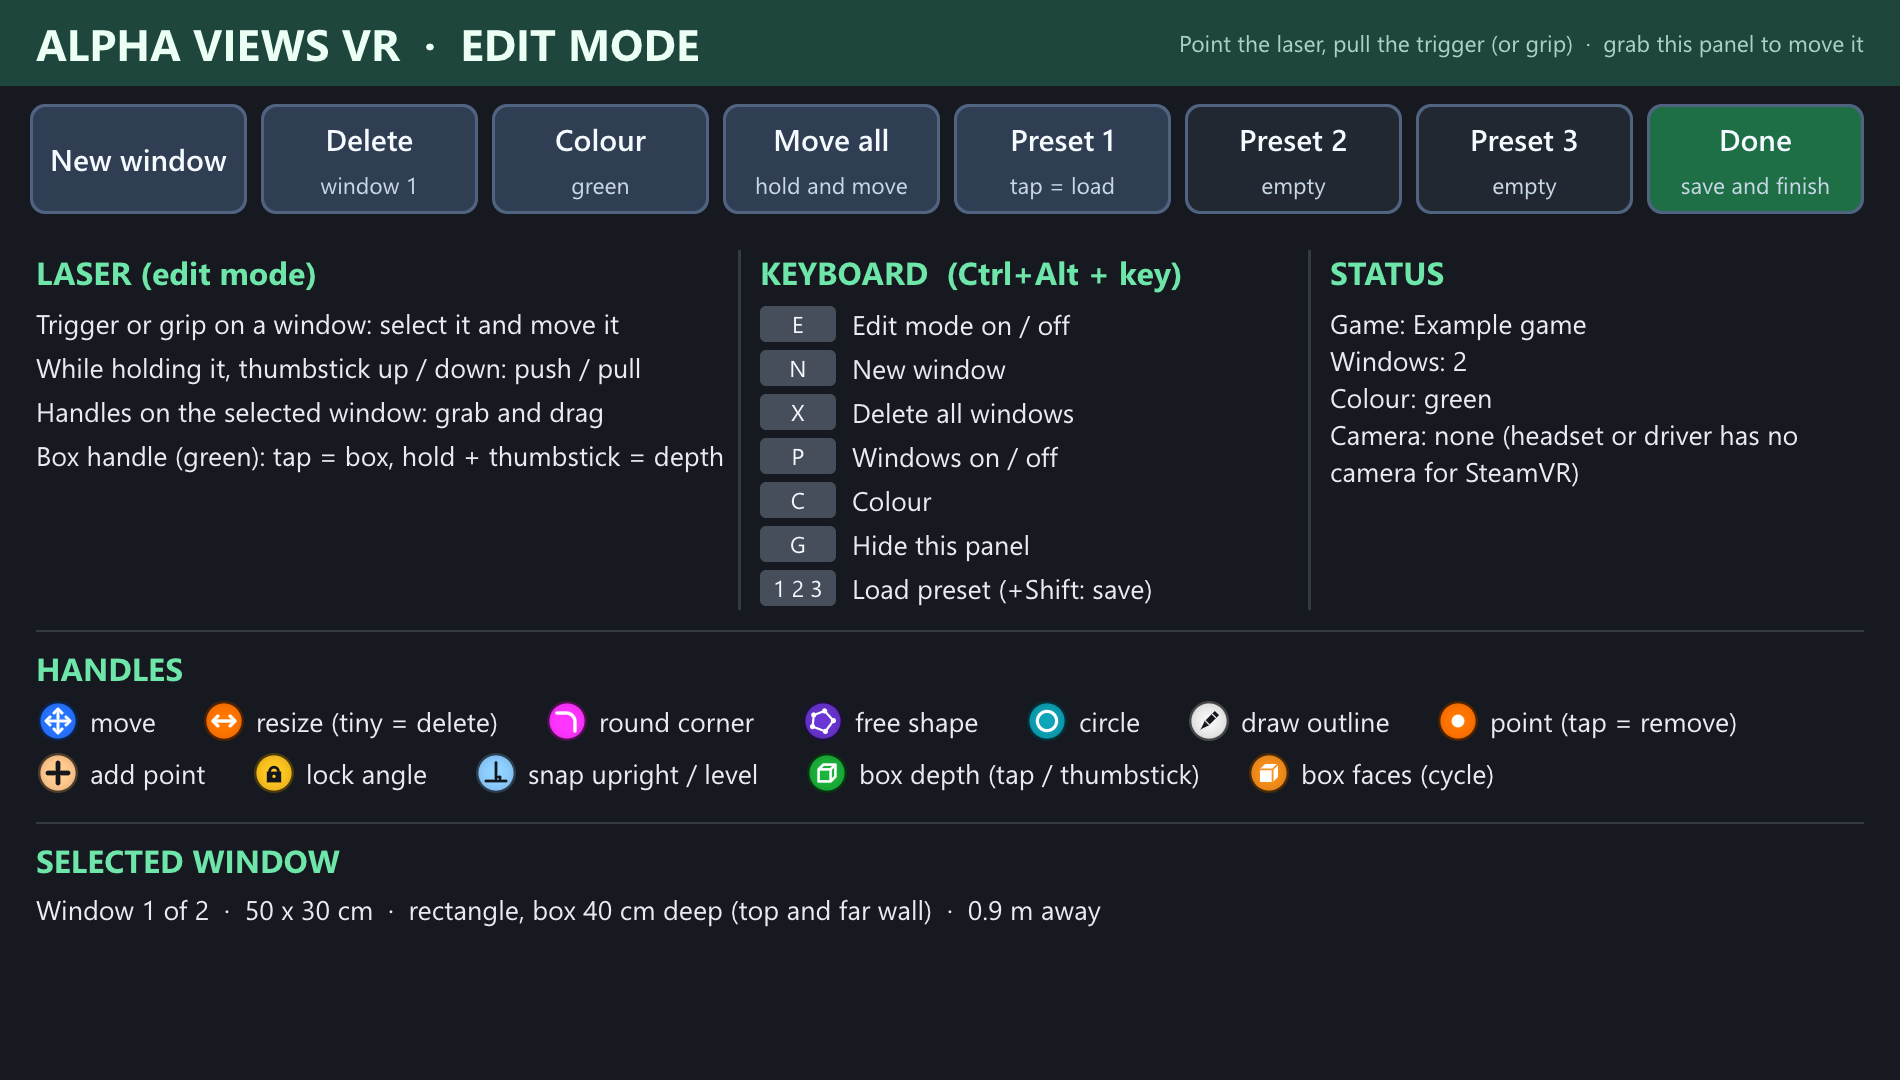
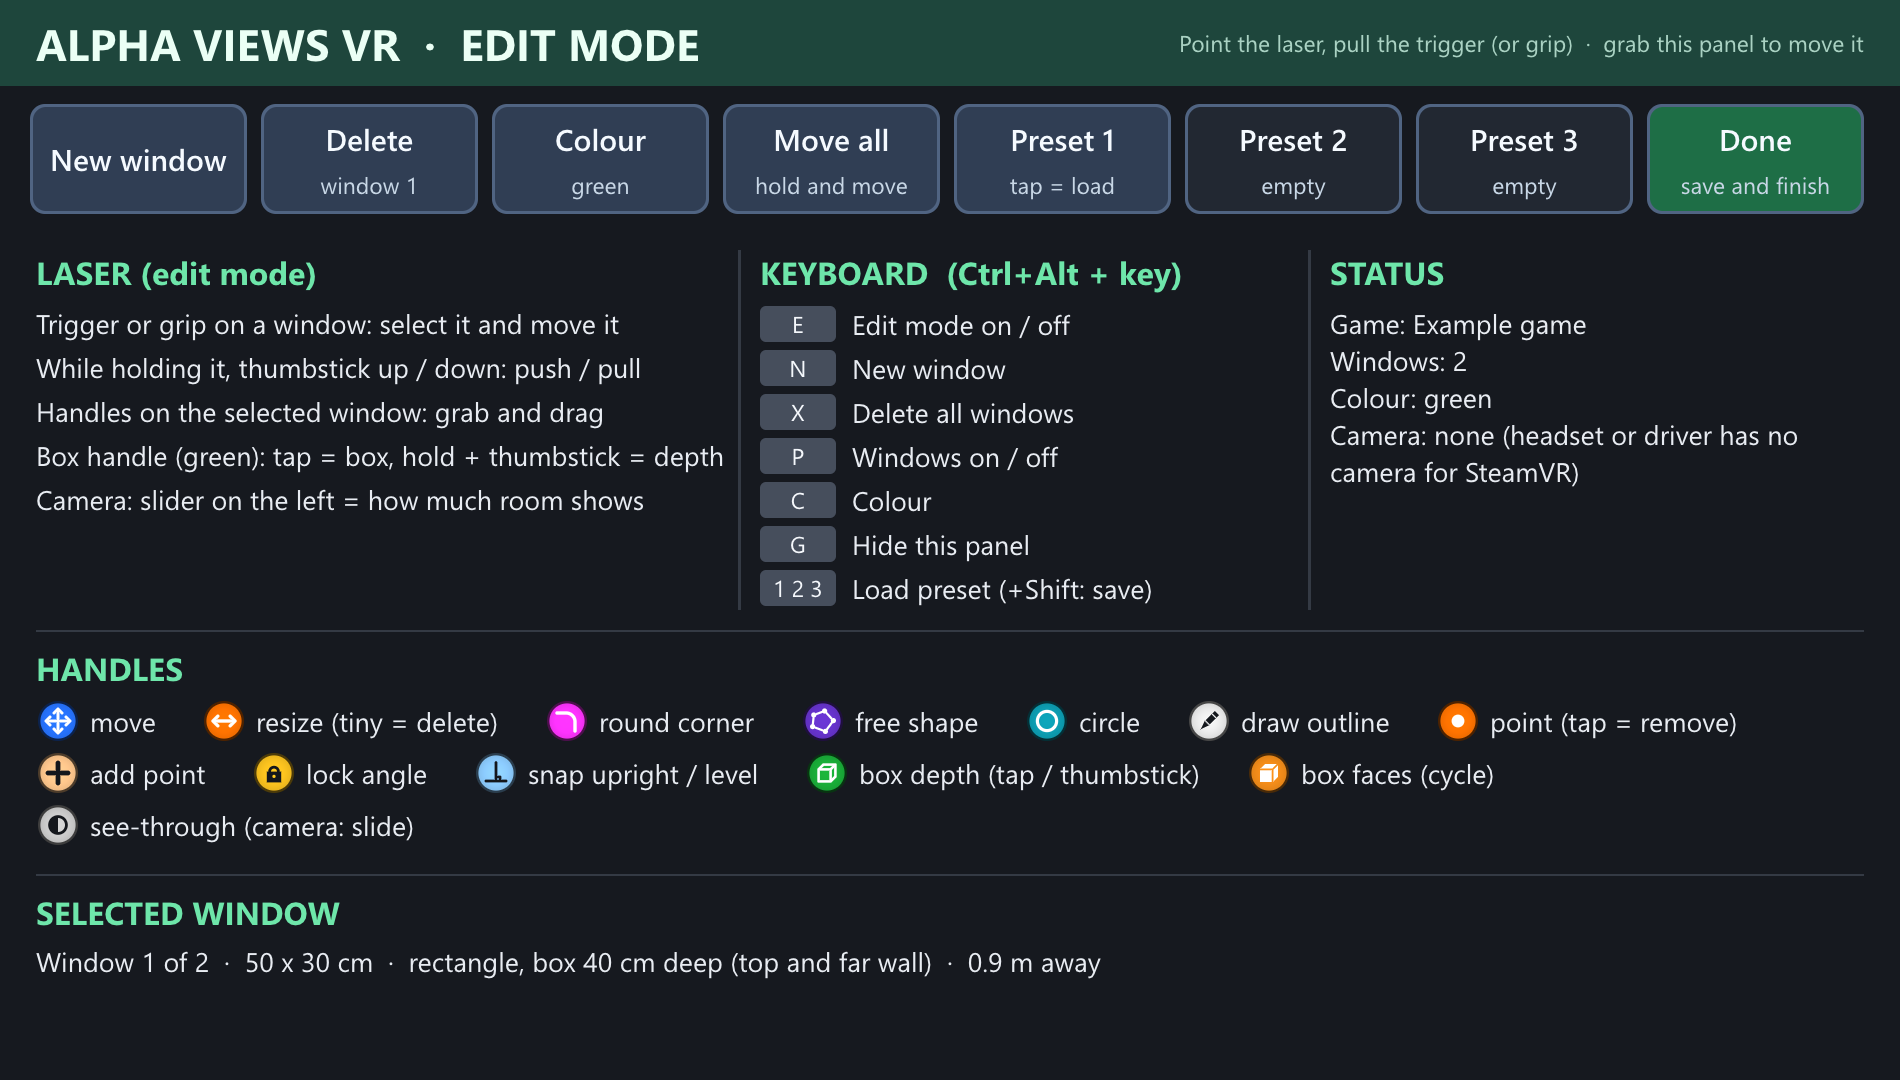
Alpha Views VR 1.2.0: see-through slider for camera mode
- New handle on the selected window (half-filled ring on a dotted track, left
  of the window): how much of the camera picture shows over the game, 100%
  (only the room, as before) down to 0% (only the game), in 5% steps. Uses
  the window's and its box faces' overlay opacity. Saved per window as a new
  last field on its line (the same file format as Alpha Views XR 1.5.1).
- Camera mode only: key colours can't be partly see-through, so the slider is
  hidden and the value ignored with green, blue or pink.
- Guide panel: legend entry, laser help line and the selected window's
  amount. README, user guide and pictures updated.

diff --git a/main.cpp b/main.cpp
@@ -226,6 +226,8 @@ struct Window {
     bool ellipse = false;
     bool lock = false;
     int boxMode = 0;              // which faces of a box show: 0 all, 1 top + far wall, 2 far wall + floor, 3 all but front and floor
+    float see = 1;                // how much of the room shows through it: 1 all (the default), 0 none (camera mode only;
+                                  // Alpha Views XR: alpha passthrough). Saved after boxMode.
 };
 static bool IsShape(const Window& w) { return w.pts.size() >= 3; }
 static XMMATRIX WinMatrix(const Window& w) {
@@ -410,9 +412,9 @@ static void MakeRect(Window& w) {
 
 // ================================================================ state
 enum GrabMode { GRAB_NONE, GRAB_MOVE, GRAB_CORNER, GRAB_RADIUS, GRAB_POINT, GRAB_ADDPT, GRAB_TYPE, GRAB_DRAWBTN,
-                GRAB_TRACE, GRAB_CIRCLEBTN, GRAB_LOCKBTN, GRAB_SNAPBTN, GRAB_GUIDE, GRAB_ALL, GRAB_PRESET, GRAB_BUTTON, GRAB_DEPTH, GRAB_BOXMODE };
+                GRAB_TRACE, GRAB_CIRCLEBTN, GRAB_LOCKBTN, GRAB_SNAPBTN, GRAB_GUIDE, GRAB_ALL, GRAB_PRESET, GRAB_BUTTON, GRAB_DEPTH, GRAB_BOXMODE, GRAB_SEE };
 enum IconId { ICON_DOT, ICON_MOVE, ICON_RESIZE, ICON_ROUND, ICON_DEPTH, ICON_KEEP, ICON_TO_SHAPE, ICON_TO_RECT,
-              ICON_DRAW, ICON_POINT, ICON_ADD, ICON_TO_CIRCLE, ICON_LOCK, ICON_UNLOCK, ICON_SNAP };
+              ICON_DRAW, ICON_POINT, ICON_ADD, ICON_TO_CIRCLE, ICON_LOCK, ICON_UNLOCK, ICON_SNAP, ICON_SEE };
 
 static std::vector<Window> g_windows;
 static int g_selected = -1, g_drawArmed = -1;
@@ -444,6 +446,21 @@ static XMVECTOR DepthHandle(const Window& w) { return WinToWorld(w, w.hw + kDept
 // The box mode button: just past the depth handle (where Alpha Views XR has its keep-box button).
 static XMVECTOR BoxModeButton(const Window& w) { return WinToWorld(w, w.hw + (kDepthOut + 0.042f) * SpreadSide(w), 0, 0); }
 static const char* kBoxModeName[4] = { "whole box", "top and far wall", "far wall and floor", "all but front and floor" };
+// "See" slider (how much room shows through the window): outside the left edge, opposite the depth
+// handle, as in Alpha Views XR. A row of dots from bottom (0: game only) to top (1: room only) and
+// a knob at the window's value. Any of them takes hold of the slider.
+static const float kSeeOut = 0.075f, kSeeLen = 0.12f, kSeeKnobR = 0.014f, kSeeDotR = 0.0045f;
+static const int kSeeDots = 7;
+static XMFLOAT2 SeeLocal(const Window& w, float t) {   // t: 0 bottom .. 1 top
+    float s = SpreadSide(w);
+    return { -(w.hw + kSeeOut * s), (t - 0.5f) * kSeeLen * s };
+}
+static float SeeFromLocalY(const Window& w, float y) {   // nearest 5 %
+    float t = std::clamp(y / (kSeeLen * SpreadSide(w)) + 0.5f, 0.0f, 1.0f);
+    return roundf(t * 20) / 20;
+}
+// Does see-through work in the current colour mode? (Key colours can't be partly see-through.)
+static bool SeeWorks() { return g_keyMode == 3; }
 static XMFLOAT2 TopButton(const Window& w, float x) { float s = SpreadTop(w); return { x * s, w.hh + 0.045f * s }; }
 static XMFLOAT2 MidLocal(const Window& w, int k) {
     const XMFLOAT2 &a = w.pts[k], &b = w.pts[(k + 1) % w.pts.size()];
@@ -461,6 +478,7 @@ static XMVECTOR TargetPoint(const Window& w, GrabMode mode, int k) {
     case GRAB_SNAPBTN: { XMFLOAT2 b = TopButton(w, 0.09f); return WinToWorld(w, b.x, b.y); }
     case GRAB_DEPTH: return DepthHandle(w);
     case GRAB_BOXMODE: return BoxModeButton(w);
+    case GRAB_SEE: { XMFLOAT2 s = SeeLocal(w, k < 0 ? w.see : (float)k / (kSeeDots - 1)); return WinToWorld(w, s.x, s.y); }
     default: break;
     }
     return WinToWorld(w, 0, 0);
@@ -521,7 +539,7 @@ static bool ReadWindows(const std::string& path, bool* enabled) {
             }
             if (ok && sscanf(c, "%d%n", &keep, &adv) == 1) {
                 w.keep = keep != 0; c += adv;
-                if (sscanf(c, "%d%n", &ell, &adv) == 1) { w.ellipse = ell != 0 && !IsShape(w); c += adv; if (sscanf(c, "%d%n", &lock, &adv) == 1) { w.lock = lock != 0; c += adv; int bm = 0; if (sscanf(c, "%d", &bm) == 1) w.boxMode = std::clamp(bm, 0, 3); } }
+                if (sscanf(c, "%d%n", &ell, &adv) == 1) { w.ellipse = ell != 0 && !IsShape(w); c += adv; if (sscanf(c, "%d%n", &lock, &adv) == 1) { w.lock = lock != 0; c += adv; int bm = 0; if (sscanf(c, "%d%n", &bm, &adv) == 1) { w.boxMode = std::clamp(bm, 0, 3); c += adv; float se = 1; if (sscanf(c, "%f", &se) == 1 && std::isfinite(se)) w.see = std::clamp(se, 0.0f, 1.0f); } } }
             }
             ws.push_back(w);
         }
@@ -539,7 +557,7 @@ static bool WriteWindows(const std::string& path) {
             w.rot.x, w.rot.y, w.rot.z, w.rot.w, w.hw, w.hh, w.radius[0], w.radius[1], w.radius[2], w.radius[3],
             0, 0, 0, 0, w.hd, IsShape(w) ? (int)w.pts.size() : 0);
         if (IsShape(w)) for (auto& p : w.pts) fprintf(f, " %f %f", p.x, p.y);
-        fprintf(f, " %d %d %d %d\n", w.keep ? 1 : 0, w.ellipse ? 1 : 0, w.lock ? 1 : 0, w.boxMode);
+        fprintf(f, " %d %d %d %d %.2f\n", w.keep ? 1 : 0, w.ellipse ? 1 : 0, w.lock ? 1 : 0, w.boxMode, w.see);
     }
     fclose(f);
     return true;
@@ -736,6 +754,10 @@ static float Glyph(int id, P p) {
         float d = min(Seg(p, { -0.5f, -0.4f }, { 0.5f, -0.4f }), Seg(p, { 0, -0.4f }, { 0, 0.52f }));
         d = min(d, min(Seg(p, { 0.2f, -0.4f }, { 0.2f, -0.2f }), Seg(p, { 0.2f, -0.2f }, { 0, -0.2f })));
         return d - 0.07f;
+    }
+    if (id == ICON_SEE) {   // a ring, its left half filled: part game, part room
+        float r = Len(p);
+        return min(fabsf(r - 0.42f) - 0.07f, max(r - 0.42f, p.x));
     }
     return 1e3f;
 }
@@ -1342,7 +1364,12 @@ static vr::VROverlayHandle_t MakeOverlay(const std::string& key, const std::stri
 
 // Window overlays: one each, with its own picture.
 struct WinOv { vr::VROverlayHandle_t ov = vr::k_ulOverlayHandleInvalid; Canvas cv; std::string look; bool shown = false, inter = false;
-              XMFLOAT4X4 frame{}; float halfW = 0.1f, halfH = 0.1f; };   // where the picture is (a box: the sheet facing you)
+              XMFLOAT4X4 frame{}; float halfW = 0.1f, halfH = 0.1f;   // where the picture is (a box: the sheet facing you)
+              float alpha = -1; };                                    // overlay opacity last set (the see slider)
+// Overlay opacity for a window's pictures: its see value in camera mode, else solid (a key colour
+// mixed with the game would no longer match the streamer's key).
+static float WindowAlpha(int wi) { return SeeWorks() && wi >= 0 && wi < (int)g_windows.size() ? g_windows[wi].see : 1.0f; }
+static void SetAlpha(vr::VROverlayHandle_t ov, float& cur, float a) { if (cur != a) { O()->SetOverlayAlpha(ov, a); cur = a; } }
 static std::vector<WinOv> g_winOv;
 // Handle overlays: a pool, given out each frame to the selected window's handles.
 struct HandleOv { vr::VROverlayHandle_t ov = vr::k_ulOverlayHandleInvalid; Tex* tex = nullptr; bool shown = false, inter = false, flip = false;
@@ -1637,7 +1664,7 @@ static void RenderGuide() {
     if (g_selected >= 0 && g_selected < (int)g_windows.size()) {
         const Window& w = g_windows[g_selected];
         sel = Fmt(L"Window %d of %d  ·  %.0f x %.0f cm  ·  %ls%ls  ·  %.1f m away", g_selected + 1, (int)g_windows.size(), w.hw * 200, w.hh * 200,
-                  IsShape(w) ? L"free shape" : w.ellipse ? L"circle" : L"rectangle", ((w.lock ? std::wstring(L", angle locked") : std::wstring()) + (w.hd > 0 ? Fmt(L", box %.0f cm deep (%ls)", w.hd * 200, Widen(kBoxModeName[w.boxMode]).c_str()) : std::wstring())).c_str(), Dist(g_head, V(w.pos)));
+                  IsShape(w) ? L"free shape" : w.ellipse ? L"circle" : L"rectangle", ((w.lock ? std::wstring(L", angle locked") : std::wstring()) + (w.hd > 0 ? Fmt(L", box %.0f cm deep (%ls)", w.hd * 200, Widen(kBoxModeName[w.boxMode]).c_str()) : std::wstring()) + (w.see < 1 ? Fmt(L", %.0f%% room", w.see * 100) : std::wstring())).c_str(), Dist(g_head, V(w.pos)));
     } else sel = g_windows.empty() ? L"No windows yet: New window (above) makes one" : Fmt(L"None selected (%d windows): point at one and pull the trigger", (int)g_windows.size());
     if (g_drawArmed >= 0) sel += L"\nDrawing: hold the trigger on the window and trace the outline, let go to finish";
     if (Now() < g_windowsFullUntil) sel += Fmt(L"\n%d windows is the most: delete one to make another", kMaxWindows);
@@ -1683,6 +1710,7 @@ static void RenderGuide() {
         L"While holding it, thumbstick up / down: push / pull",
         L"Handles on the selected window: grab and drag",
         L"Box handle (green): tap = box, hold + thumbstick = depth",
+        L"Camera: slider on the left = how much room shows",
     };
     int y = top + 54;
     for (auto* s : kLaser) { g.Text(s, g.fText, cText, { x1, y, x2 - 30, y + 40 }, TX_LEFT | TX_SINGLELINE | TX_END_ELLIPSIS); y += 44; }
@@ -1713,9 +1741,10 @@ static void RenderGuide() {
         { ICON_SNAP, { 0.55f, 0.8f, 1 }, { 0.08f, 0.09f, 0.11f }, true },
         { ICON_DEPTH, { 0.1f, 0.68f, 0.22f } },
         { ICON_KEEP, { 0.95f, 0.55f, 0.1f } },
+        { ICON_SEE, { 0.8f, 0.8f, 0.8f } },
     };
     static const wchar_t* words[] = { L"move", L"resize (tiny = delete)", L"round corner", L"free shape", L"circle", L"draw outline",
-                                      L"point (tap = remove)", L"add point", L"lock angle", L"snap upright / level", L"box depth (tap / thumbstick)", L"box faces (cycle)" };
+                                      L"point (tap = remove)", L"add point", L"lock angle", L"snap upright / level", L"box depth (tap / thumbstick)", L"box faces (cycle)", L"see-through (camera: slide)" };
     g.Text(L"HANDLES", g.fHead, cHead, { x1, y, xEnd, y + 44 }, TX_LEFT | TX_SINGLELINE);
     y += 54;
     std::vector<std::pair<int, int>> spots;
@@ -1927,6 +1956,11 @@ static void BeginWindowGrab(GrabMode mode, int wi, int k) {
     LaserOnWindow(w, hit);
     XMStoreFloat3(&g_grab.hit0, hit);
     if (mode == GRAB_MOVE) { g_selected = wi; return; }
+    if (mode == GRAB_SEE) {   // the slider follows the laser at once (pointing at a dot jumps there)
+        g_grab.dragging = true;
+        w.see = SeeFromLocalY(w, WorldToWin(w, hit).y);
+        return;
+    }
     if (mode == GRAB_TRACE) {
         g_tracePlane = w;
         if (g_ctlOk) {
@@ -2012,6 +2046,7 @@ static void UpdateGrab(double now) {
     }
     XMVECTOR hit;
     if (!LaserOnWindow(G.mode == GRAB_TRACE ? g_tracePlane : w, hit)) return;
+    if (G.mode == GRAB_SEE) { w.see = SeeFromLocalY(w, WorldToWin(w, hit).y); return; }
     XMVECTOR p = hit + V(G.offset);
     if (G.mode == GRAB_CORNER) {
         int k = G.k;
@@ -2075,6 +2110,7 @@ static void EndGrab(double now) {
             RecentreShape(w);
         }
         if (G.mode == GRAB_TRACE) FinishTrace(G.win);
+        if (G.mode == GRAB_SEE) Log("Window %d shows %.0f%% room\n", G.win, w.see * 100);
         if (G.mode == GRAB_DEPTH) {
             if (tap) w.hd = w.hd > 0 ? 0 : 0.1f;   // tap: a 20 cm box, or flat again
             Log("Window %d depth %.0f cm%s\n", G.win, w.hd * 200, w.hd > 0 ? "" : " (flat)");
@@ -2124,6 +2160,18 @@ static void BuildHandles(std::vector<UiIcon>& out) {
         bool h = hovered(GRAB_BOXMODE, -1); float s = h ? 1.15f : 0.9f;
         const float* c = kCol[w.boxMode];
         add(GRAB_BOXMODE, -1, kButtonR * (h ? 1.25f : 1), { ICON_KEEP, { std::min(1.0f, c[0] * s), std::min(1.0f, c[1] * s), std::min(1.0f, c[2] * s) } }, face, face);
+    }
+    if (SeeWorks()) {   // see-through slider: track dots (dim below the knob, lit above), then the knob
+        bool a = g_grab.win == wi && g_grab.mode == GRAB_SEE;
+        bool h = a;
+        for (int k = -1; k < kSeeDots; ++k) h = h || hovered(GRAB_SEE, k);
+        for (int k = 0; k < kSeeDots; ++k) {
+            float t = (float)k / (kSeeDots - 1), b = t <= w.see + 1e-3f ? 0.85f : 0.35f;
+            if (fabsf(t - w.see) * kSeeLen < kSeeKnobR * 1.3f) continue;   // under the knob
+            add(GRAB_SEE, k, kSeeDotR * (h ? 1.3f : 1), { ICON_DOT, { b, b, b } }, wr, wu);
+        }
+        IconLook look = a ? IconLook{ ICON_SEE, { 1, 0.9f, 0.2f } } : IconLook{ ICON_SEE, { h ? 0.95f : 0.8f, h ? 0.95f : 0.8f, h ? 0.95f : 0.8f } };
+        add(GRAB_SEE, -1, kSeeKnobR * (h ? 1.25f : 1), look, face, face);
     }
     if (IsShape(w)) {
         bool h = hovered(GRAB_DRAWBTN, -1), armed = g_drawArmed == wi;
@@ -2311,7 +2359,7 @@ static bool BoxView(const Window& w, const std::vector<XMFLOAT2>& per, const std
 // selected in edit mode (its handles must stay in front) and in camera mode (one picture per box).
 // The front face is the window's own overlay (moved out to the front); the back and the sides come from
 // this pool, shared by all boxes.
-struct FaceOv { vr::VROverlayHandle_t ov = vr::k_ulOverlayHandleInvalid; bool shown = false, inter = false; int mirror = -1; Tex* tex = nullptr; uint32_t texVer = 0; int win = -1; };
+struct FaceOv { vr::VROverlayHandle_t ov = vr::k_ulOverlayHandleInvalid; bool shown = false, inter = false; int mirror = -1; Tex* tex = nullptr; uint32_t texVer = 0; int win = -1; float alpha = -1; };
 static std::vector<FaceOv> g_faceOv;
 static bool g_facePoolFull = false;
 static Tex* g_solidTex[3] = {};
@@ -2401,6 +2449,7 @@ static void ShowFaces(const std::vector<Face>& faces) {
         bool inter = g_edit && !(fabsf(hl.z) < fw.hd + 0.05f && fabsf(hl.x) < fw.hw + 0.05f && fabsf(hl.y) < fw.hh + 0.05f);   // not from inside it
         if (g_grab.mode != GRAB_NONE) inter = f.inter;
         if (inter != f.inter) { SetInteractive(f.ov, inter); f.inter = inter; }
+        SetAlpha(f.ov, f.alpha, WindowAlpha(fc.win));
         if (!f.shown) { O()->ShowOverlay(f.ov); f.shown = true; }
     }
 }
@@ -2499,6 +2548,7 @@ static void ShowWindows(bool camNew) {
         bool inter = g_edit && !inside;
         if (g_grab.mode != GRAB_NONE && g_grab.win == (int)i) inter = o.inter;   // held: unchanged, or its let-go would be lost
         if (o.inter != inter) { SetInteractive(o.ov, inter); o.inter = inter; }
+        SetAlpha(o.ov, o.alpha, WindowAlpha((int)i));
         if (!o.shown) { O()->ShowOverlay(o.ov); o.shown = true; }
     }
     ShowFaces(faces);

diff --git a/README.md b/README.md
@@ -23,6 +23,8 @@ starts with SteamVR.
   far wall and floor; or everything but the front and floor.
 - **Key colour or camera:** green, blue or pink for colour-key streamers, or the headset's own
   camera where SteamVR has one (used automatically until you pick a colour).
+- **See-through (camera):** a slider on each window sets how much of the camera picture shows
+  over the game, from only the room down to only the game.
 - **Edit in the headset:** SteamVR's laser pointer moves, resizes and shapes the windows, with the
   same handles as Alpha Views XR (move, resize, round corners, lock, snap upright / level, free
   shape points, draw). The game gets no controller input while you edit.
@@ -66,6 +68,7 @@ the [user guide](packaging/README.txt).
 | Handles on the selected window | grab and drag |
 | Green box handle | tap: box / flat; hold + thumbstick: depth |
 | Box faces button | cycle which faces show |
+| Half-filled ring (camera mode) | slide: how much room shows |
 | Pencil (free shapes) | arm, then trace anywhere you point |
 
 | Keyboard, Windows only (Ctrl+Alt +) | |
